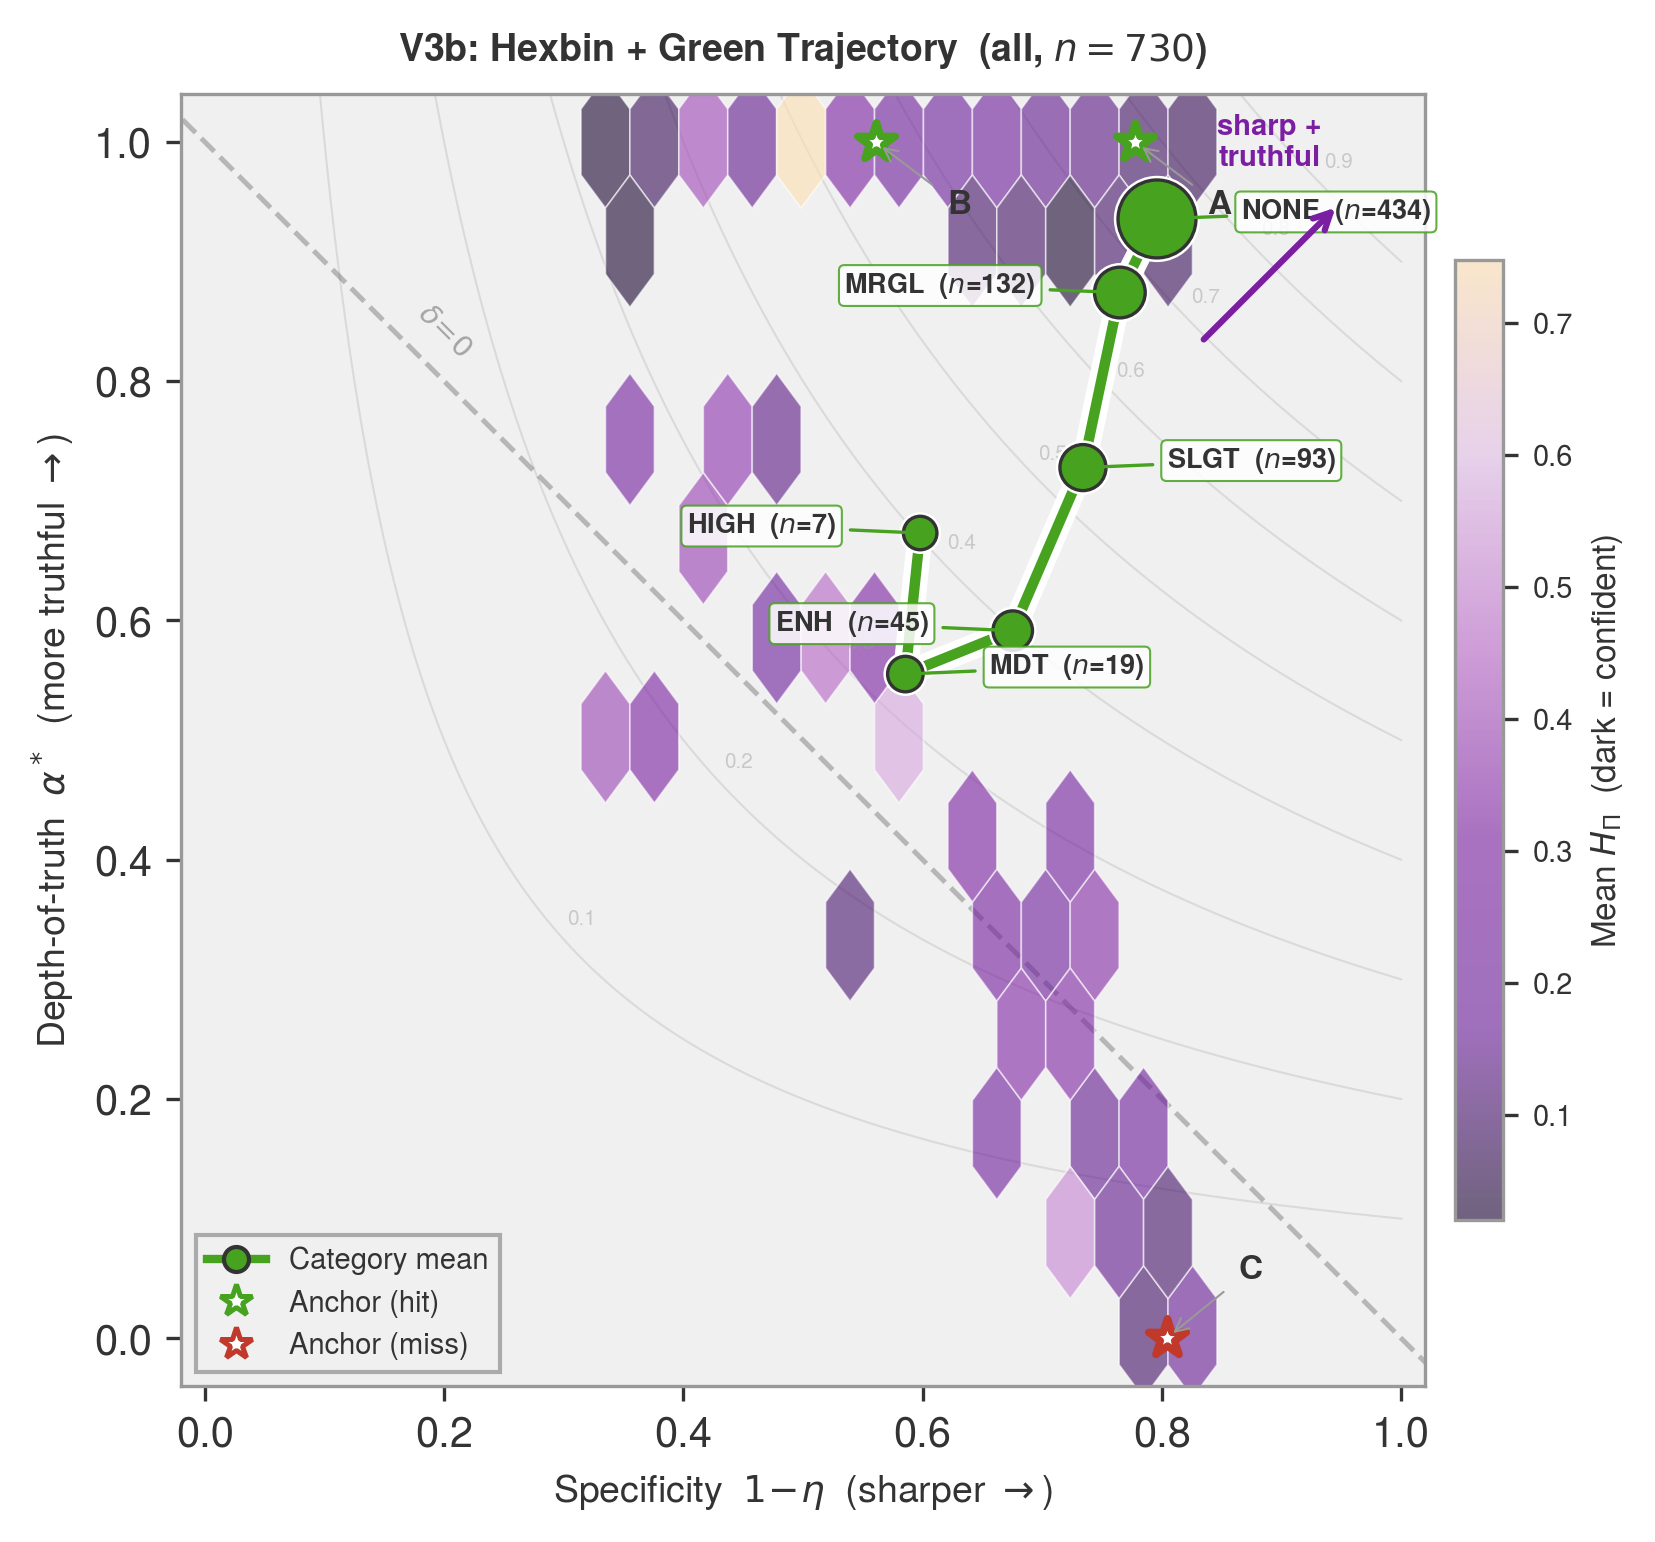
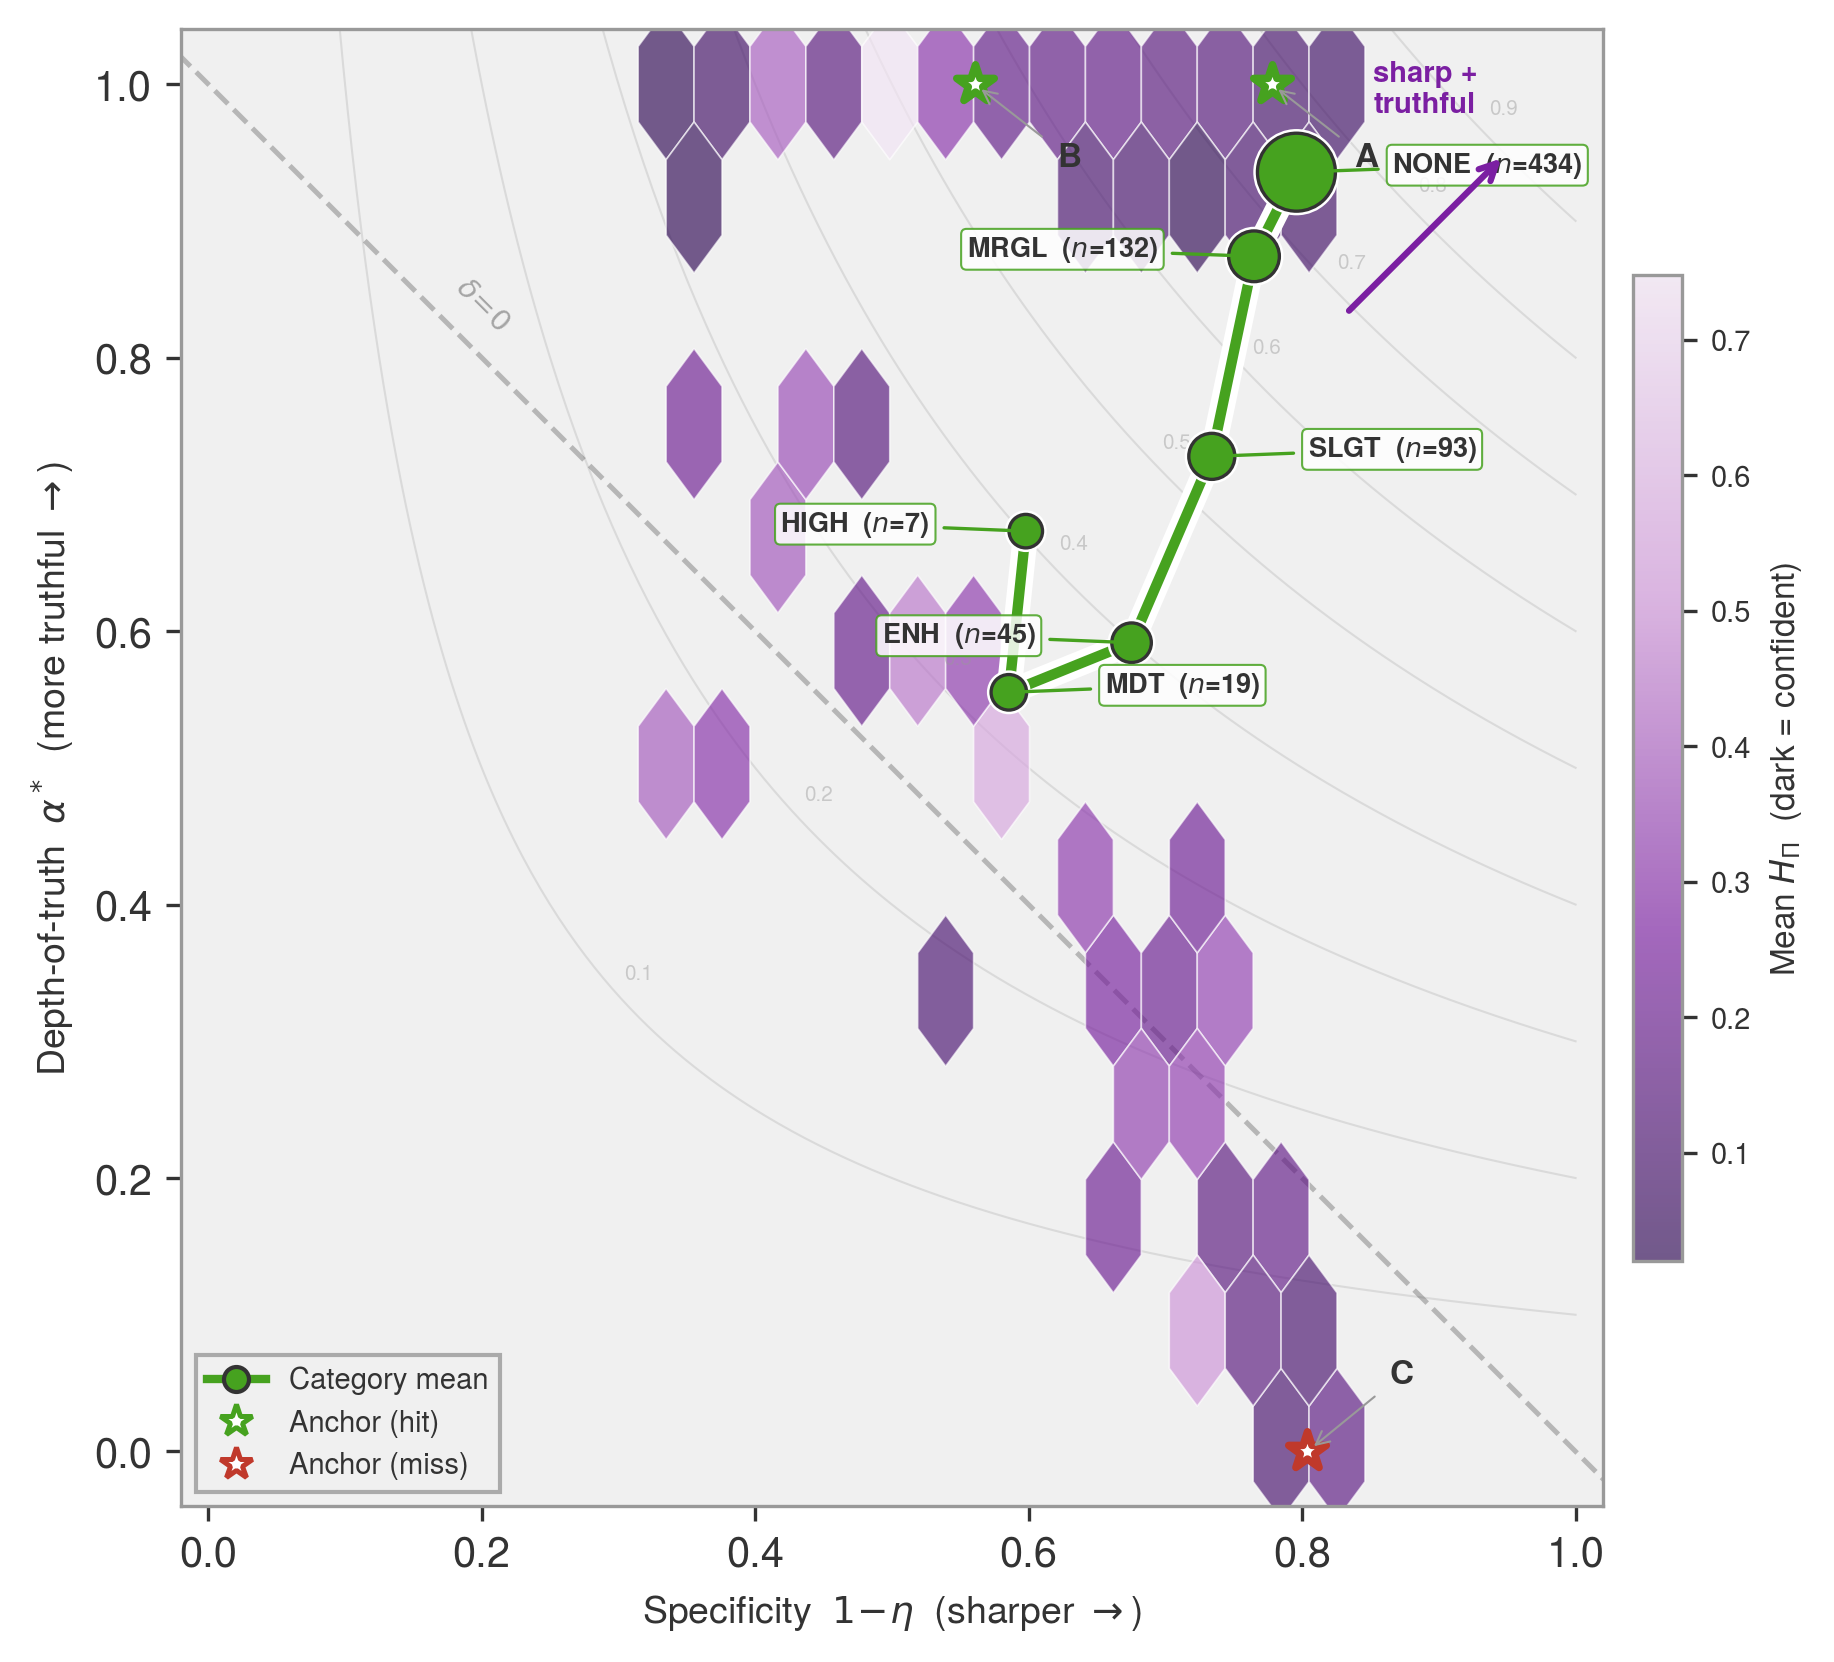
Fix hex symmetry and revert to purple-only colormap
Use constrained_layout for proper 1:1 hex aspect ratio.
Replace warm-peach cmap endpoint with pale purple.
Remove dev title from figure.

diff --git a/scripts/fig_perf_iterate.py b/scripts/fig_perf_iterate.py
@@ -30,9 +30,9 @@ MISS_RED = "#C0392B"
 # ------------------------------------------------------------------ #
 
 def hpi_cmap():
-    """H_Pi: very dark purple (confident) → warm peach (uncertain)."""
+    """H_Pi: dark purple (confident) → pale purple (uncertain)."""
     return LinearSegmentedColormap.from_list("hpi2", [
-        "#1A0533", "#6A1B9A", PURPLE, "#BA68C8", "#E1BEE7", "#FFE0B2",
+        "#2E0854", PURPLE, "#CE93D8", "#F3E5F5",
     ], N=256)
 
 
@@ -226,7 +226,7 @@ def draw_traj_commit(ax, means, color=GREEN, fontsize=6.5):
 
 def v3b(data, ap, spec, anchors):
     """V3b: green trajectory + enhanced hexbin (all days)."""
-    fig, ax = plt.subplots(figsize=(5.8, 5.5))
+    fig, ax = plt.subplots(figsize=(6.0, 5.5), constrained_layout=True)
     cm = hpi_cmap()
     nm = Normalize(0.0, 0.55)
     means = cat_means(data, spec)
@@ -237,7 +237,7 @@ def v3b(data, ap, spec, anchors):
     hb = ax.hexbin(spec, ap, C=data['H_Pi'],
                    reduce_C_function=np.mean, gridsize=12, cmap=cm,
                    edgecolors="white", linewidths=0.4, mincnt=1,
-                   alpha=0.6, zorder=1)
+                   alpha=0.65, zorder=1)
 
     draw_traj_spec_alpha(ax, means)
     draw_anchors_spec_alpha(ax, anchors)
@@ -261,14 +261,11 @@ def v3b(data, ap, spec, anchors):
 
     ax.set_xlim(-0.02, 1.02)
     ax.set_ylim(-0.04, 1.04)
-    ax.set_aspect('equal', adjustable='box')
+    ax.set_aspect('equal')
     ax.set_xlabel(r"Specificity  $1\!-\!\eta$  (sharper $\rightarrow$)",
                   fontsize=9)
     ax.set_ylabel(r"Depth-of-truth  $\alpha^*$  (more truthful $\rightarrow$)",
                   fontsize=9)
-    ax.set_title(f"V3b: Hexbin + Green Trajectory  (all, $n = {len(spec)}$)",
-                 fontsize=9, fontweight="bold", pad=8)
-    fig.tight_layout()
     save_fig(fig, "performance_diagram")
 
 
